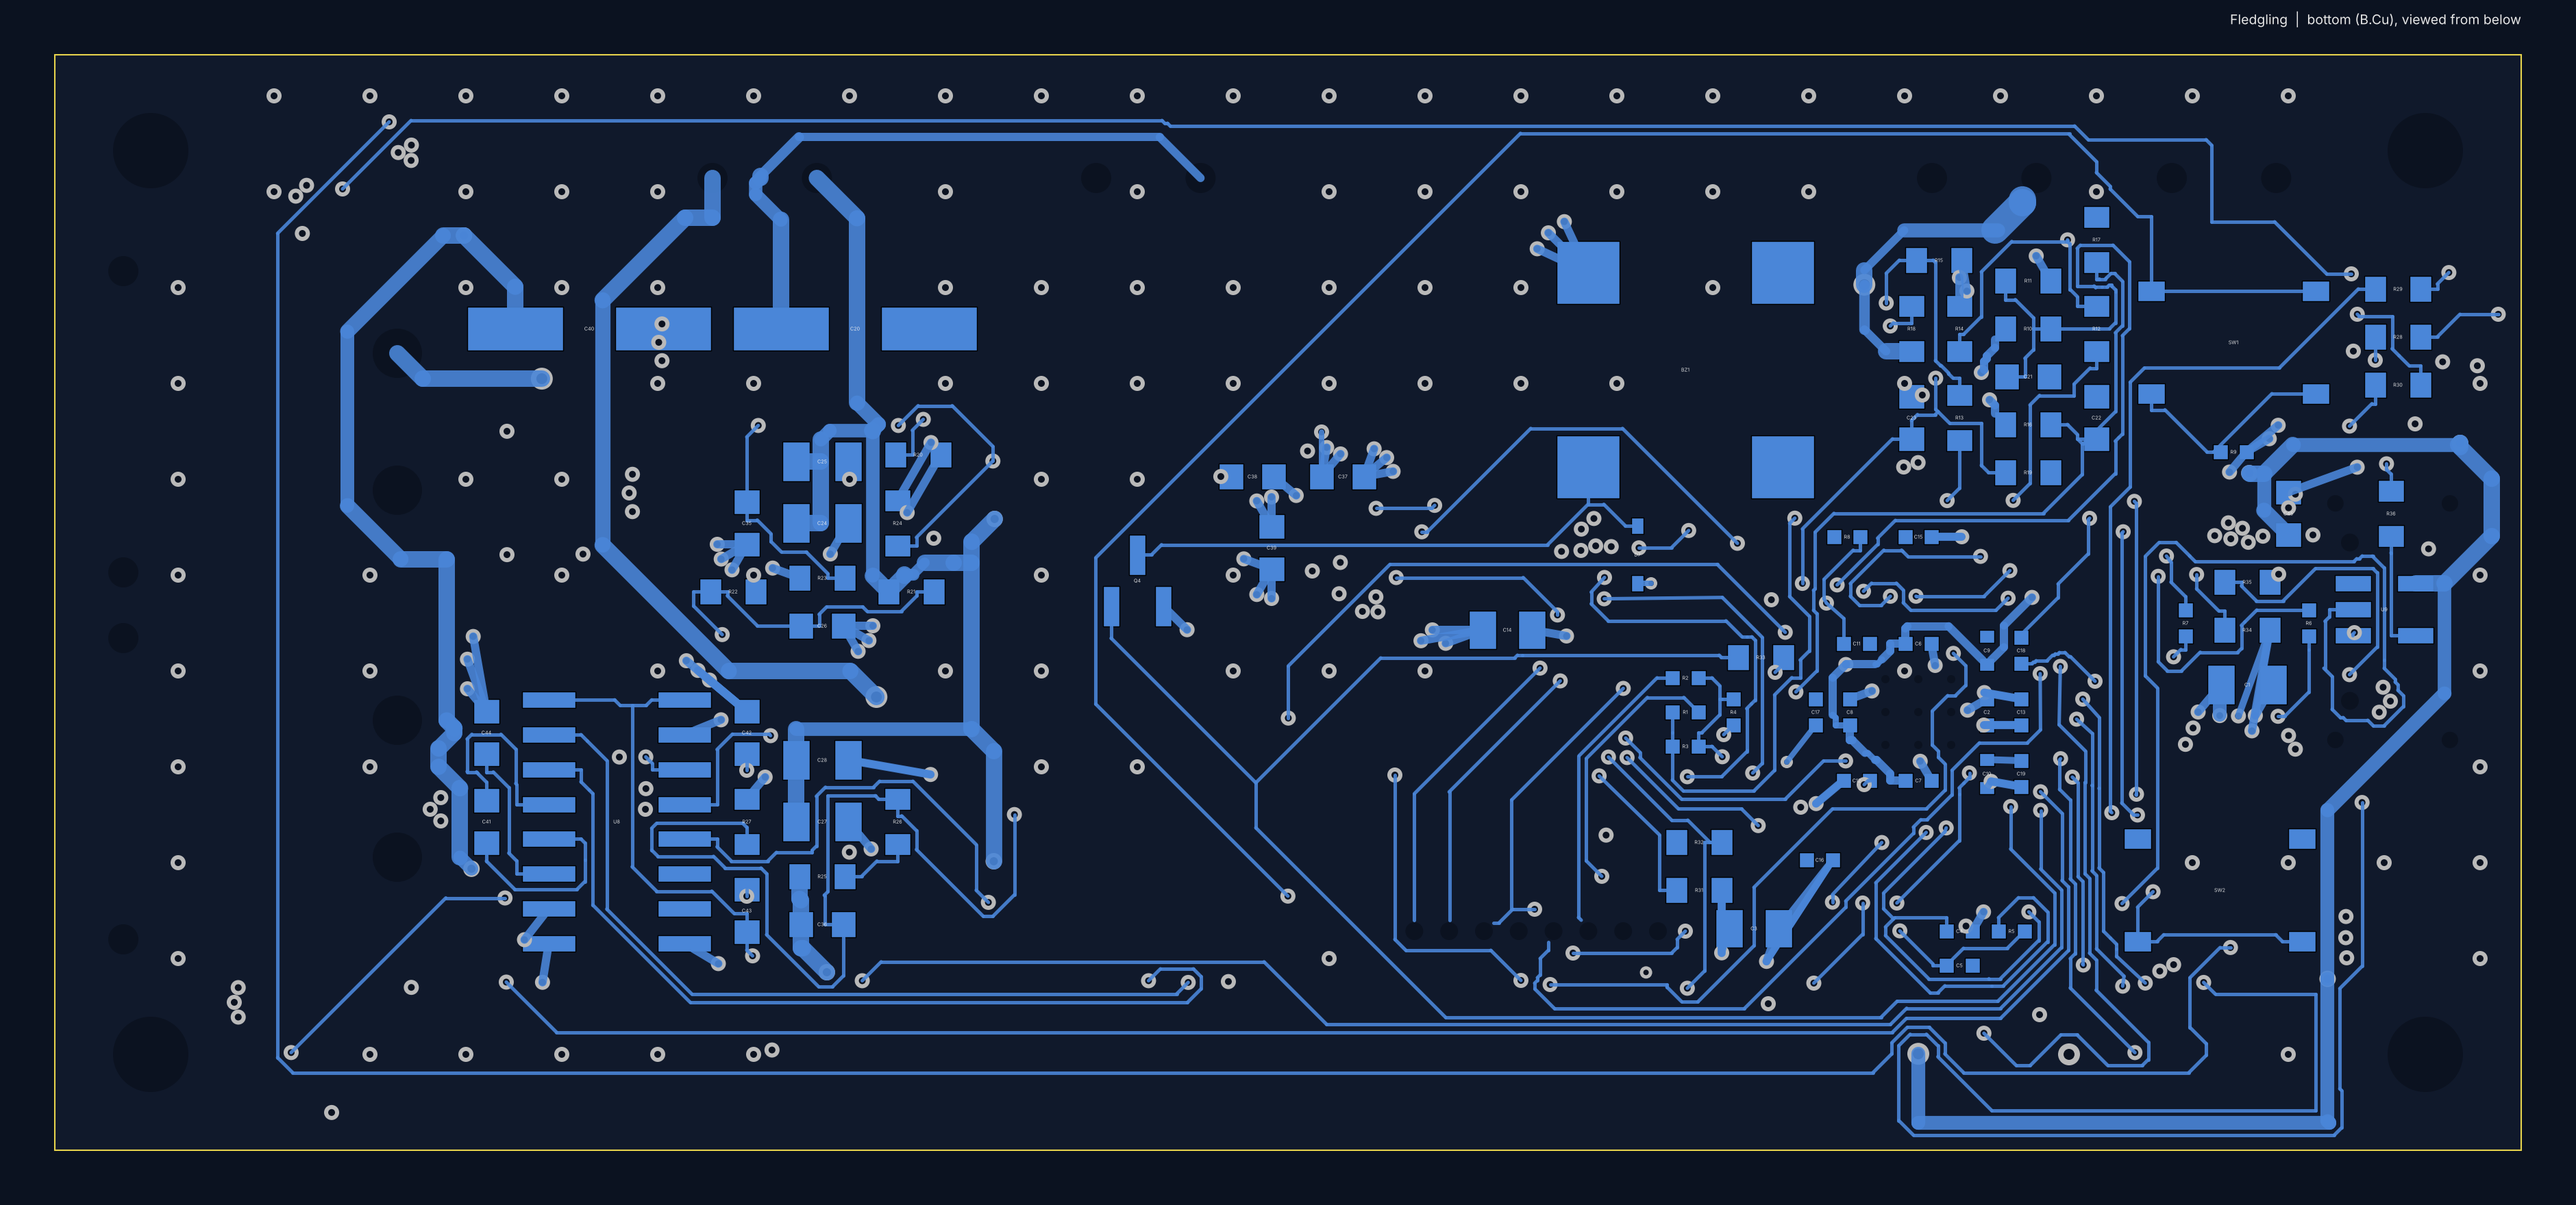
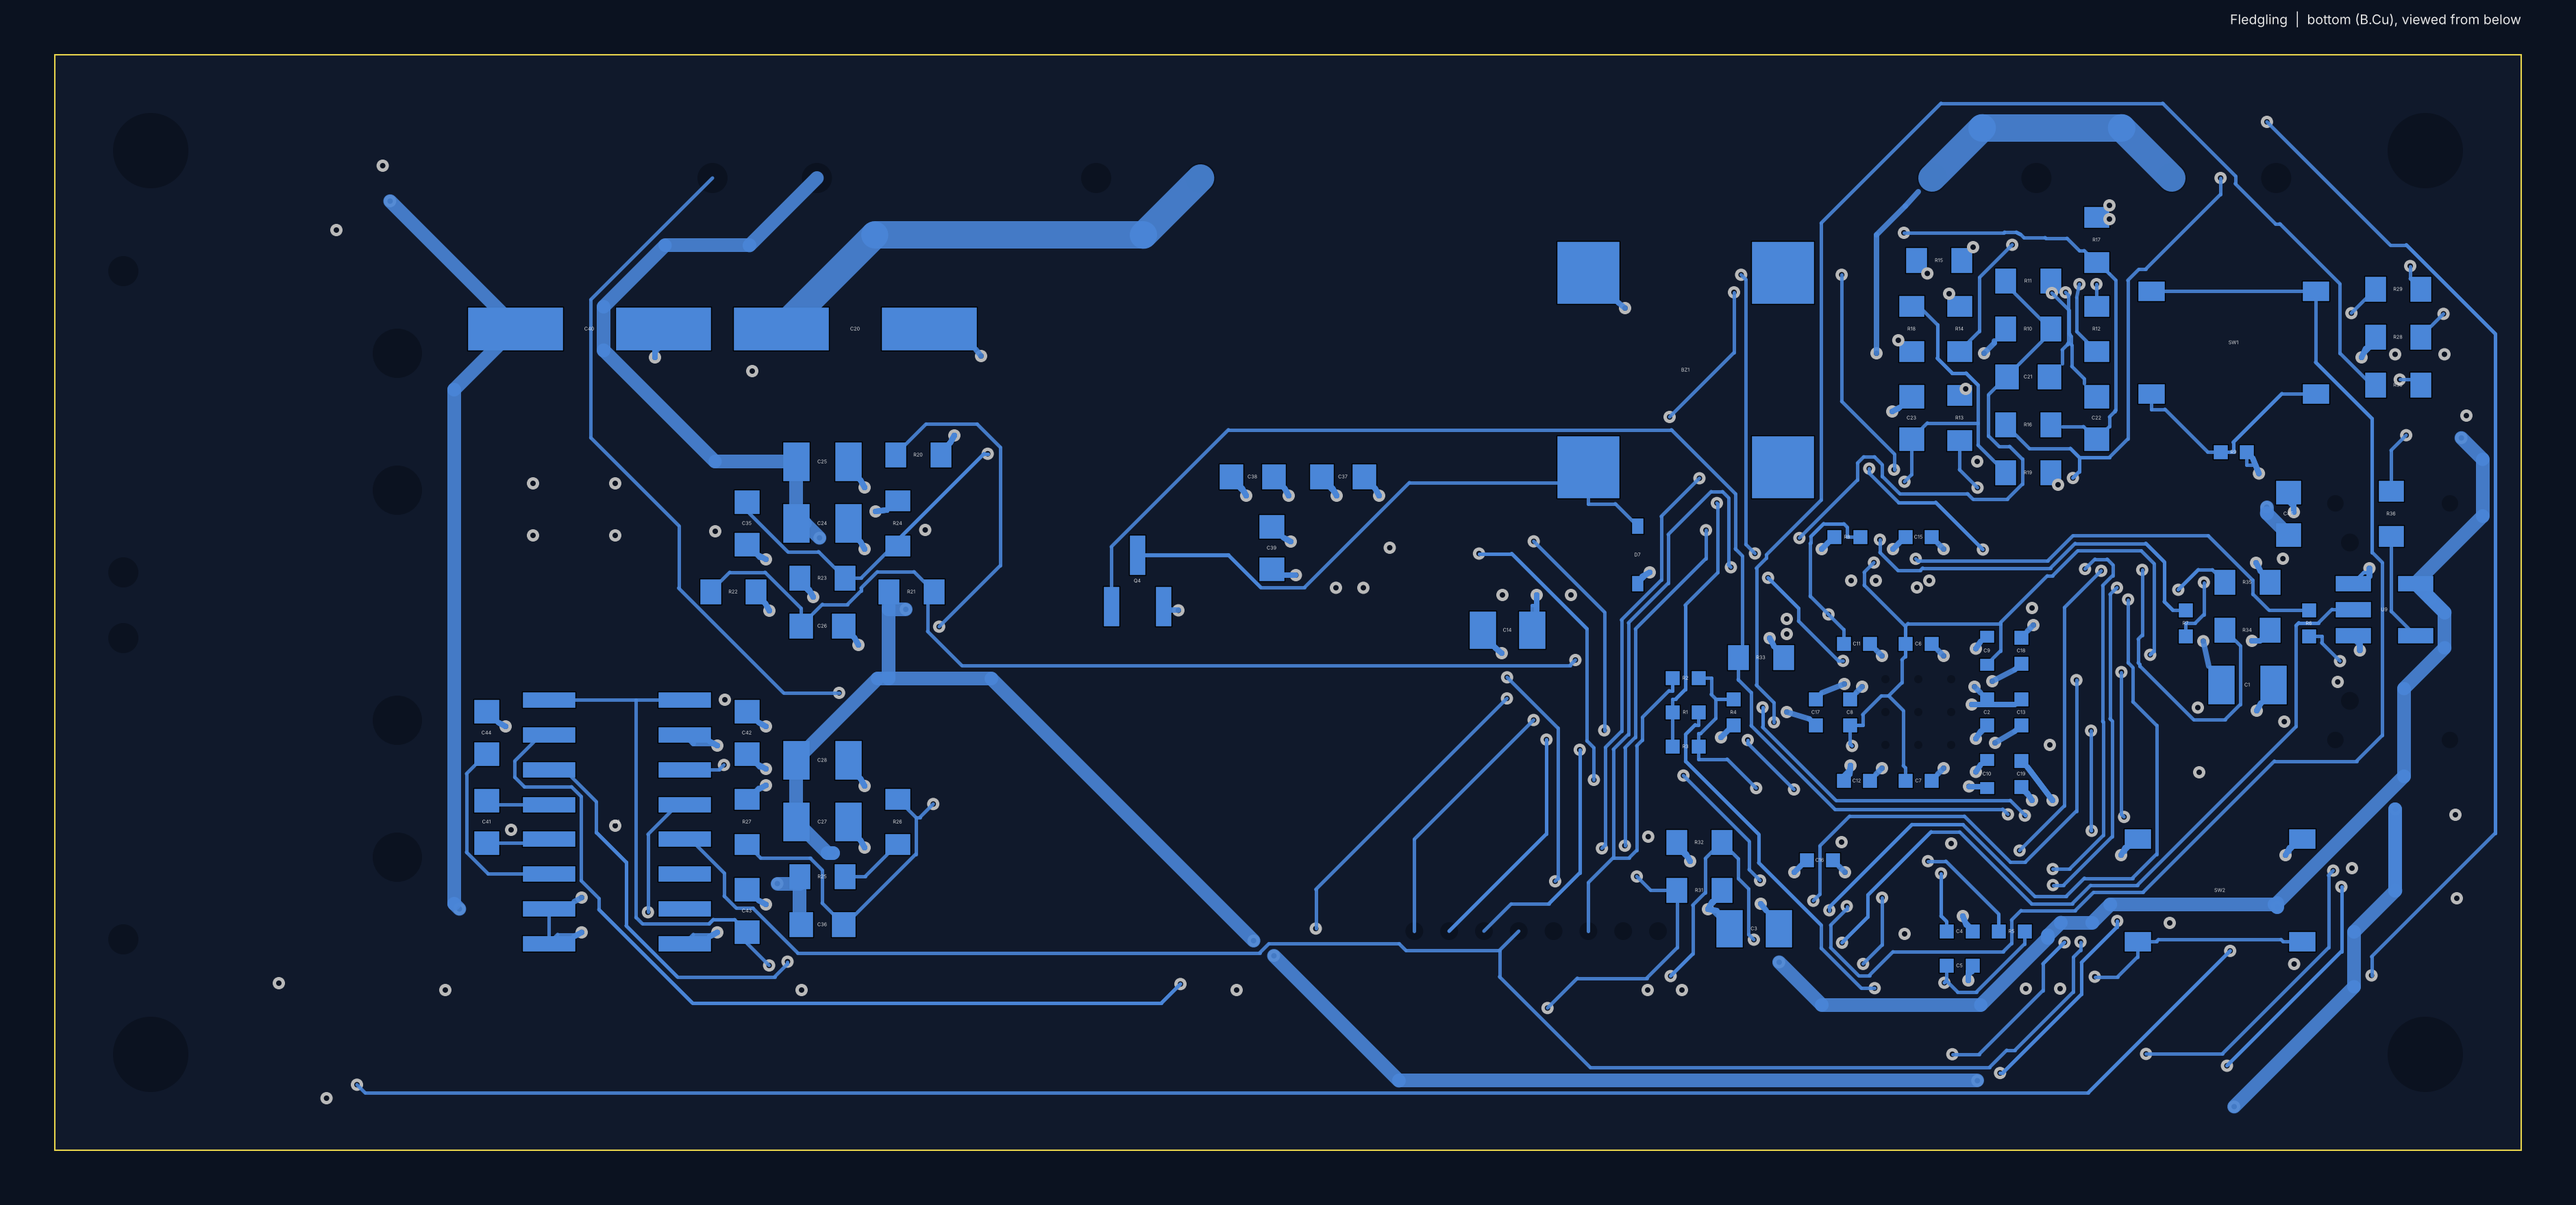
Add Gerbers, re-render images and update docs for the routed board
Gerbers and drill files exported from the DRC-clean board, board views
re-rendered, README / remaining-work / design-decisions updated with
every part move and routing decision.

Claude-Session: https://claude.ai/code/session_01ECBCQrcnTfe26qVTfUsFPx

diff --git a/README.md b/README.md
@@ -2,7 +2,7 @@
 
 ![Fledgling PCB layout in KiCad](docs/images/pcb-layout-kicad.png)
 
-> **Status: work in progress (WIP).** The schematic is drawn and the board is partly laid out, but the design is **unfinished, unrouted in places, not DRC-clean, not fabricated and not tested.** Nothing here has flown. I'm publishing it as it stands.
+> **Status: work in progress (WIP).** The schematic is drawn and the board is fully routed and passes KiCad's design-rule check (0 errors, 0 unconnected items), but the design is **not reviewed electrically, not fabricated and not tested.** Nothing here has flown. I'm publishing it as it stands.
 
 Fledgling is a small single-MCU flight computer for my model and high-power rockets. It's meant to be a simpler sibling of my CORVID flight computer: the same RP2350 family, IMU and power parts, so firmware and drivers carry over. It is designed to work with the [Aviary](https://github.com/Birdbrain-Aviation/aviary) software suite (Owl ground station, Heron log analysis, Mockingbird hardware-in-the-loop testing).
 
@@ -58,12 +58,13 @@ Symbols and footprints are embedded in the schematic and board files, so the des
 
 ## Known state (WIP)
 
-- **2026-11-22: routing cleared for re-placement.** All traces and vias were removed so parts around the RP2350 can be moved and the board re-routed; the previous fully routed version (22 errors / 13 warnings, 22 unconnected power connections) is kept in `hardware/archive/Fledgling_routed_2026-11-21.kicad_pcb`. The DRC notes below describe that archived version.
-- Last DRC run (2026-11-21, `docs/DRC-2026-11-21-j12.rpt`, with zones refilled): **22 errors and 13 warnings**. All 22 errors are unconnected power connections: the RP2350's +3V3 supply pins and its B.Cu decoupling caps have no via to the In2.Cu +3V3 plane, plus two GND and three VBUS pads and some small GND pour islands. Signal traces on both outer layers block every via spot, so the RP2350 power fan-out needs re-routing by hand. The warnings are footprint-library mismatches and one track overshoot. Silkscreen is clean. Gerbers in `fab/` are exported but marked NOT FOR FAB until the power connections are done.
+- **2026-11-22: board fully routed, DRC clean.** KiCad 10.0.6 DRC with zones refilled (`docs/DRC-2026-11-22-final.rpt`): **0 errors, 0 unconnected items, 12 warnings.** All 12 warnings are footprint-library mismatches or footprints missing from the `Fledgling` library; they predate the routing. The only part that moved is L1 (0.05 mm in y). The routing was produced with scripts (a grid router and a local checker, not in this repo) and then checked in KiCad, so **nobody has reviewed it electrically**: buck-converter loops, USB pair, QSPI, the ADC dividers and the pyro sense tap still need a human look. Details are in `docs/design-decisions.md` section 11.
+- Gerbers and drills for this version are in `fab/Fledgling-gerbers-2026-11-22.zip`. They are DRC-clean but **not yet checked by a fab's CAM or ordered.** Get a quote and a CAM check before ordering.
+- The previous version (22 errors / 22 unconnected power connections) is kept in `hardware/archive/Fledgling_routed_2026-11-21.kicad_pcb`.
 - Changes on 2026-11-17: E220 supply (J2 pin 6) moved from +5V to +3V3, with the +5V trunk re-routed under J2 on B.Cu; C35/C36 feed-forward capacitor values set. See `docs/design-decisions.md`.
 - Connector orientation (USB-C and XT30) checked. See `docs/layout-log-2026-11-14.md` and `docs/design-decisions.md` for the full history.
 - The BOM is a draft. Some prices are optimistic LCSC "from" prices, some parts are marked pending (pyro fuse rating, load cell capacity), and a few parts have low stock. See the Status and Notes columns in `bom/Fledgling_BOM.csv`.
-- Layout is incomplete and messy.
+- Routing is complete but machine-generated and untidy in places (many small jogs near the RP2350).
 - The design has changed since my first sketches (it started as a 30 x 80 mm 2-layer board), so the early notes don't all match the current board.
 
 ## License

diff --git a/docs/design-decisions.md b/docs/design-decisions.md
@@ -110,3 +110,20 @@ Freerouting (open-source autorouter) was tried on the Specctra DSN export, with 
 - Rip-up run: all signal routing in a 19 x 20 mm box around U3 (except USB D+/D-, XIN/XOUT, VREG_LX, VREG_AVDD) was removed and re-routed from scratch. It placed 11 new +3V3 vias but left the region incomplete. After import, KiCad DRC showed 82 errors and 36 unconnected (worse than 22), and the imported vias had a 0.075 mm annular ring. Not kept. The board is unchanged from section 9.
 
 Conclusion: the U3 area has too little routing room at the current placement and via size for any router, automatic or scripted, to fit the RP2350's power vias. The realistic fixes are placement changes: spread the U3 decoupling caps, move the flash (U1) and the +1V1 regulator parts away from U3, or move to a 6-layer stackup.
+
+## 11. Re-routing to 0 errors (2026-11-22)
+
+Result: KiCad 10.0.6 DRC with zones refilled, `DRC-2026-11-22-final.rpt`: **0 errors, 0 unconnected, 12 warnings** (library mismatches only). Pyro rules kept: `*PYRO_BUS*` 0.3 mm clearance and 1.0 mm tracks, 0.2 mm sense tap, 0.15 mm allowed inside the PyroTap rule area. Vias 0.45/0.2 mm, copper-to-edge 0.3 mm.
+
+**Part moves.** Only one: **L1 from (116.3, 121.0) to (116.3, 120.95)**, to open a 0.05 mm gap for the GPIO0/GPIO1/GPIO15/+3V3 tracks beside it. Larger moves were tried and reverted: moving L1 0.9 mm left left GPIO1 with a 0.16 mm corridor; moving the ADC-divider caps C21/C22 out of their slots made the lattice no easier. C21/C22 are in their original slots (118.0, 111.75) and (115.5, 113.25). No other part, connector, mounting hole, outline or silkscreen label footprint moved, and the schematic and nets are unchanged.
+
+**How it was routed.** The RP2350 pins use jogged escape stubs with planner vias to the +3V3/GND planes. The remaining nets were routed by a grid maze router (0.025 mm grid, clearance maps) and checked with a local DRC model that was calibrated against KiCad's clearance results, then confirmed in KiCad. Each SMD GND/+3V3 pad has its own via or a track to one, since the pours only connect to through-hole pads.
+
+**The hard region: the ADC divider lattice** (B.Cu 0603s northeast of U3, R10-R19, C21-C23, Q1/Q2 gate parts). Decisions made there:
+- The pyro sense tap (R10.1 to the PYRO_BUS bus) cannot be re-routed by the router, because outside the small tap area it needs 0.3 mm clearance. It was kept as a hand route; only its second via moved from (123.125, 110.6) to (123.525, 110.9) to clear R18.1 (PYRO2_N pad) by 0.3 mm, and its end now runs into J8.1's pad.
+- GPIO26's divider node (R16.2/C22.1) could not reach R17.1 and Q1-G's hub via at the same time. Fix: the Q1-G via hub moved to (115.5, 108.375), between R17.1 and R12.2, with Q1-G's east half routed on F.Cu over the top; the GPIO14 hub via moved to (116.12, 108.375) and its F.Cu run to y=108.85. The GND vias of that lattice were re-seated afterwards (Q2.3's via sits at (119.85, 114.85) inside its pad).
+- Track ends that touched a pad only at a rounded corner (KiCad counted them as unconnected) got short stubs to the pad centre.
+
+**Tried and not kept:** Freerouting on the whole board (see section 10; also used the wrong widths for PYRO_BUS in one experiment, which was caught and discarded); soft rip-up routing (cascades through the dense lattice).
+
+**Not done:** electrical review of the generated routing, fab CAM check, and a hand tidy of small jogs.

diff --git a/docs/remaining-work.md b/docs/remaining-work.md
@@ -1,12 +1,12 @@
 # Remaining work (WIP)
 
-**2026-11-22: all routing was cleared** (traces and vias; parts, zones and outline kept) to re-place parts around the RP2350 and re-route. The routed board these notes refer to is in `hardware/archive/Fledgling_routed_2026-11-21.kicad_pcb`. Plan for the next session: spread the U3 decoupling caps, move U1 (flash) and the +1V1 regulator parts outward, plan a via for every power pin before routing signals, then re-route (USB pair and crystal first, power fan-out next, signals last).
+**2026-11-22: board routed to 0 DRC errors and 0 unconnected items** (`DRC-2026-11-22-final.rpt`, KiCad 10.0.6, zones refilled, 12 library warnings only). Parts were left in place except L1 (0.05 mm). The older notes below that describe the 22 unconnected power items are kept as history; they are resolved.
 
 Status of the Fledgling board as of the saved files. Sources: the 2026-11-14 DRC report in this folder, the layout log, and a script-based check of `hardware/Fledgling.kicad_pcb` (`tools/`). KiCad's own DRC is the authority. The script check is approximate and is only meant to point at where to look.
 
 ## Layout
 
-- [ ] **Plane connections (main open task).** 22 unconnected items (J12.2 fixed 2026-11-21). A grid maze router (2026-11-21) found no legal route or via spot for any of them. Each one is blocked by a specific trace on the opposite outer layer, so a via can't pass through:
+- [x] **Plane connections (done 2026-11-22; notes below are history).** 22 unconnected items (J12.2 fixed 2026-11-21). A grid maze router (2026-11-21) found no legal route or via spot for any of them. Each one is blocked by a specific trace on the opposite outer layer, so a via can't pass through:
   - C15.1 and R8.1 (B.Cu): /QSPI_SD1 on F.Cu runs over both
   - C16.1 (B.Cu): VSYS and /GPIO16 on F.Cu
   - R32.1 (B.Cu): /GPIO16 on F.Cu
@@ -24,7 +24,10 @@ Status of the Fledgling board as of the saved files. Sources: the 2026-11-14 DRC
 - [ ] **Library mismatches.** 5 footprints differ from their library copies and 3 are missing from the Fledgling library. These predate the layout work.
 - [x] **Connector orientation** checked from footprint geometry (2026-11-21): USB-C J1 opens off the left edge; XT30 J5/J9 have power pins inboard and support pegs at the right edge, so they mate off the edge. Pin 1 = GND, pin 2 = + on both. Neither has a 3D model linked.
 - [x] **DRC re-run** on 2026-11-17 (`DRC-2026-11-17.rpt`): 29 errors (25 of them unconnected items), 68 warnings. Re-run again after the layout items above.
-- [x] **Gerber and drill export** (2026-11-21), in `fab/`, marked NOT FOR FAB. Re-export after the plane connections are fixed, then get a fab quote.
+- [x] **Gerber and drill export** re-done 2026-11-22 from the DRC-clean board: `fab/Fledgling-gerbers-2026-11-22.zip`.
+- [ ] **Fab quote and CAM check** (JLCPCB 4-layer) before ordering.
+- [ ] **Electrical review of the generated routing**: buck-converter loops, USB pair, QSPI, ADC divider lattice (U3 east side), pyro sense tap, GND pour stitching.
+- [ ] **Tidy-up**: many short jogs near U3 could be cleaned by hand.
 
 ## Design decisions
 

diff --git a/fab/README.md b/fab/README.md
@@ -1,7 +1,7 @@
-# Fabrication outputs: NOT FOR FAB
+# Fabrication outputs
 
-`Fledgling-gerbers-NOT-FOR-FAB-2026-11-21.zip` holds the Gerbers (F.Cu, In1.Cu, In2.Cu, B.Cu, mask, paste, silkscreen, Edge.Cuts, job file) and the Excellon drill files (PTH and NPTH). They were exported from KiCad 10 on 2026-11-21 from the board in `hardware/` at that date.
+`Fledgling-gerbers-2026-11-22.zip` holds the Gerbers (F.Cu, In1.Cu, In2.Cu, B.Cu, mask, paste, silkscreen, Edge.Cuts, job file) and the Excellon drill files (PTH and NPTH), exported from KiCad 10.0.6 on 2026-11-22 from the board in `hardware/` at commit time. That board has 0 DRC errors and 0 unconnected items (`docs/DRC-2026-11-22-final.rpt`).
 
-**Do not order from these.** KiCad DRC still reports 22 unconnected power connections (see `docs/remaining-work.md`). Most are the RP2350's +3V3 pins and decoupling caps with no via to the In2.Cu +3V3 plane, so a board built from these files would not power up correctly. They are here to show the layer set and to let the board be previewed in a Gerber viewer such as JLCPCB's.
+**Still not checked by a fab.** Nothing has been ordered, no CAM check has been run, and the routing has not been reviewed electrically (see `docs/remaining-work.md`). Do a JLCPCB (or other fab) CAM check and read the layer previews before ordering.
 
-Settings: 4.6 mm coordinate format, X2 attributes with netlist, Gerber job file, drill origin absolute, millimetres.
+Settings: 4.6 mm coordinate format, X2 attributes with netlist, Gerber job file, drill origin absolute, millimetres. Files were renamed from the working copy's name to `Fledgling-*`.
